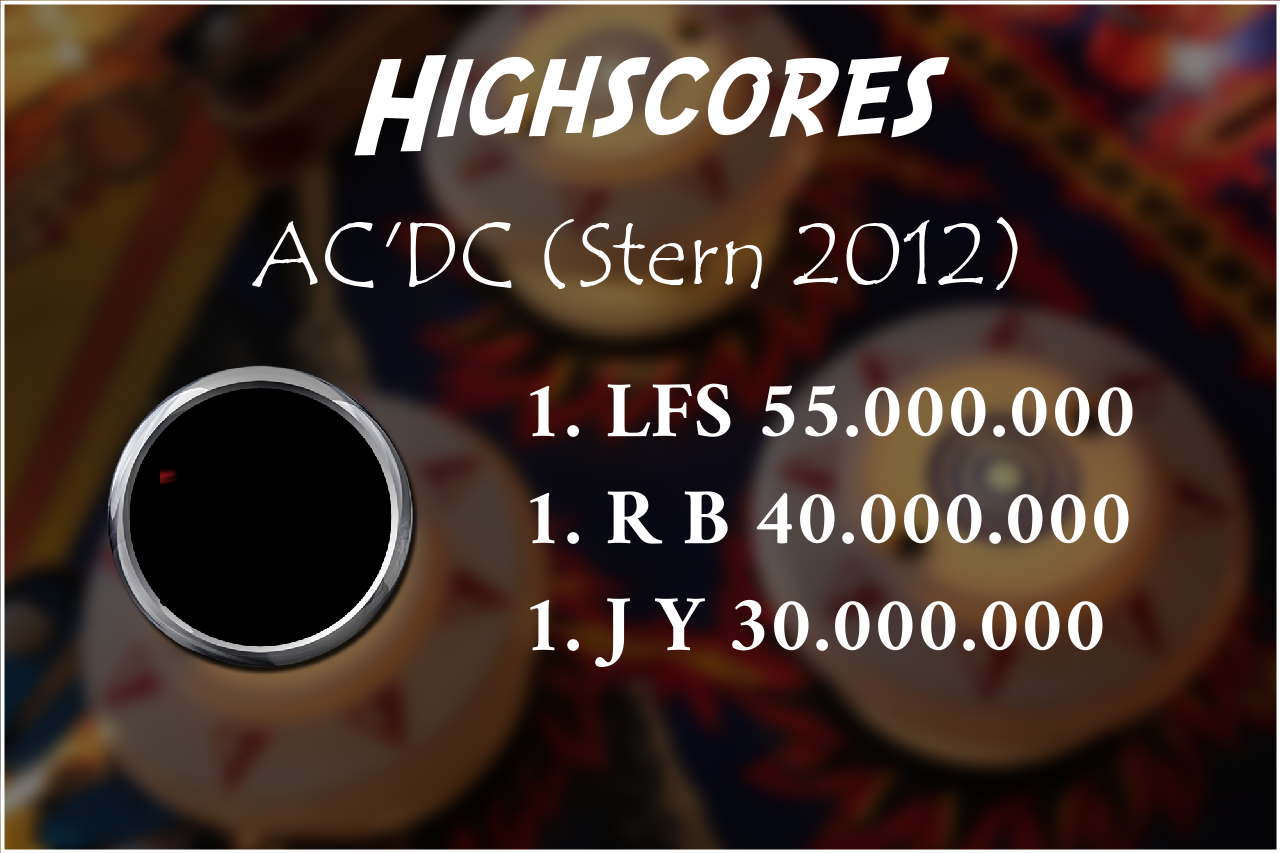
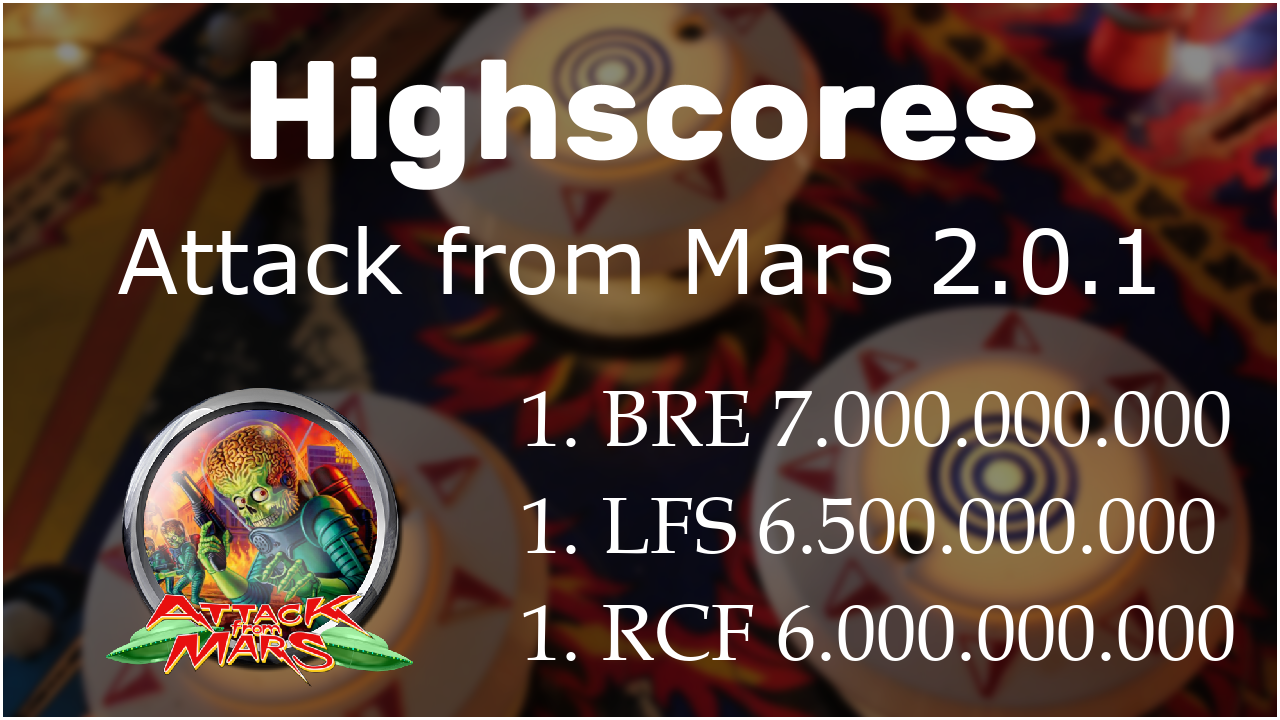
UI

diff --git a/vpin-studio-ui/src/main/java/de/mephisto/vpin/ui/HighscoreCardsController.java b/vpin-studio-ui/src/main/java/de/mephisto/vpin/ui/HighscoreCardsController.java
@@ -48,10 +48,13 @@ public class HighscoreCardsController implements Initializable, ObservedProperty
   private Button openBtn;
 
   @FXML
-  private Label resolutionLabel;
+  private Label titleFontLabel;
 
   @FXML
-  private Label selectedTableLabel;
+  private Label scoreFontLabel;
+
+  @FXML
+  private Label tableFontLabel;
 
   @FXML
   private ComboBox<String> popperScreenCombo;
@@ -124,7 +127,17 @@ public class HighscoreCardsController implements Initializable, ObservedProperty
 
   @FXML
   private void onFontTitleSelect() {
-   BindingUtil.bindFontSelector(properties, "card");
+    BindingUtil.bindFontSelector(properties, "card.title", titleFontLabel);
+  }
+
+  @FXML
+  private void onFontTableSelect() {
+    BindingUtil.bindFontSelector(properties, "card.table", tableFontLabel);
+  }
+
+  @FXML
+  private void onFontScoreSelect() {
+    BindingUtil.bindFontSelector(properties, "card.score", scoreFontLabel);
   }
 
   @FXML
@@ -142,7 +155,17 @@ public class HighscoreCardsController implements Initializable, ObservedProperty
   public HighscoreCardsController() {
   }
 
-  private void initFields() throws Exception {
+  private void initFields() {
+    titleFontLabel.setText(properties.getProperty("card.title.font.name", "Arial")
+        + ", " + properties.getProperty("card.title.font.style", "Regular")
+        + ", " + properties.getProperty("card.title.font.size", "32") + "px");
+    tableFontLabel.setText(properties.getProperty("card.table.font.name", "Arial")
+        + ", " + properties.getProperty("card.table.font.style", "Regular")
+        + ", " + properties.getProperty("card.table.font.size", "32") + "px");
+    scoreFontLabel.setText(properties.getProperty("card.score.font.name", "Arial")
+        + ", " + properties.getProperty("card.score.font.style", "Regular")
+        + ", " + properties.getProperty("card.score.font.size", "32") + "px");
+
     BindingUtil.bindTableComboBox(client, tableCombo, properties, "card.sampleTable");
 
     popperScreenCombo.setItems(FXCollections.observableList(Arrays.asList("Other2", "GameInfo", "GameHelp")));

diff --git a/vpin-studio-ui/src/main/java/de/mephisto/vpin/ui/util/BindingUtil.java b/vpin-studio-ui/src/main/java/de/mephisto/vpin/ui/util/BindingUtil.java
@@ -3,6 +3,7 @@ package de.mephisto.vpin.ui.util;
 import de.mephisto.vpin.restclient.ObservedProperties;
 import de.mephisto.vpin.restclient.VPinStudioClient;
 import de.mephisto.vpin.restclient.representations.GameRepresentation;
+import javafx.application.Platform;
 import javafx.beans.binding.Bindings;
 import javafx.beans.property.*;
 import javafx.beans.value.ChangeListener;
@@ -65,10 +66,10 @@ public class BindingUtil {
     }, 1000));
   }
 
-  public static void bindFontSelector(ObservedProperties properties, String key) {
-    String name = properties.getProperty(key + ".table.font.name", "Arial");
-    int size = properties.getProperty(key + ".table.font.size", 72);
-    String style = properties.getProperty(key + ".table.font.style", FontPosture.REGULAR.name());
+  public static void bindFontSelector(ObservedProperties properties, String key, Label label) {
+    String name = properties.getProperty(key + ".font.name", "Arial");
+    int size = properties.getProperty(key + ".font.size", 72);
+    String style = properties.getProperty(key + ".font.style", FontPosture.REGULAR.name());
 
     Font font = Font.font(name, FontPosture.findByName(style), size);
 
@@ -82,9 +83,11 @@ public class BindingUtil {
       if (fs.getResult() != null) {
         Font result = fs.getResult();
         debouncer.debounce("font", () -> {
-          properties.set(key + ".table.font.name", result.getName());
-          properties.set(key + ".table.font.size", String.valueOf((int)result.getSize()));
-          properties.set(key + ".table.font.style", result.getStyle());
+          properties.set(key + ".font.name", result.getName());
+          properties.set(key + ".font.size", String.valueOf((int)result.getSize()));
+          properties.set(key + ".font.style", result.getStyle());
+
+          Platform.runLater(() -> label.setText(result.getName() + ", " + result.getStyle() + ", " + result.getSize() + "px"));
         }, 100);
 
       }
